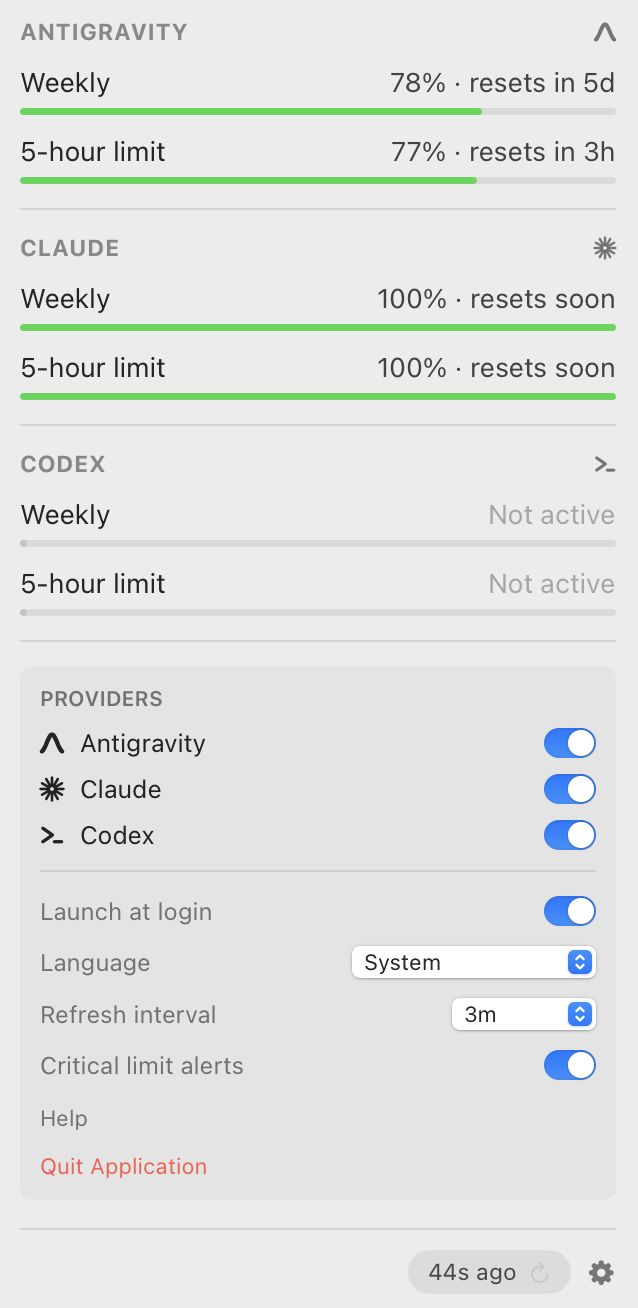
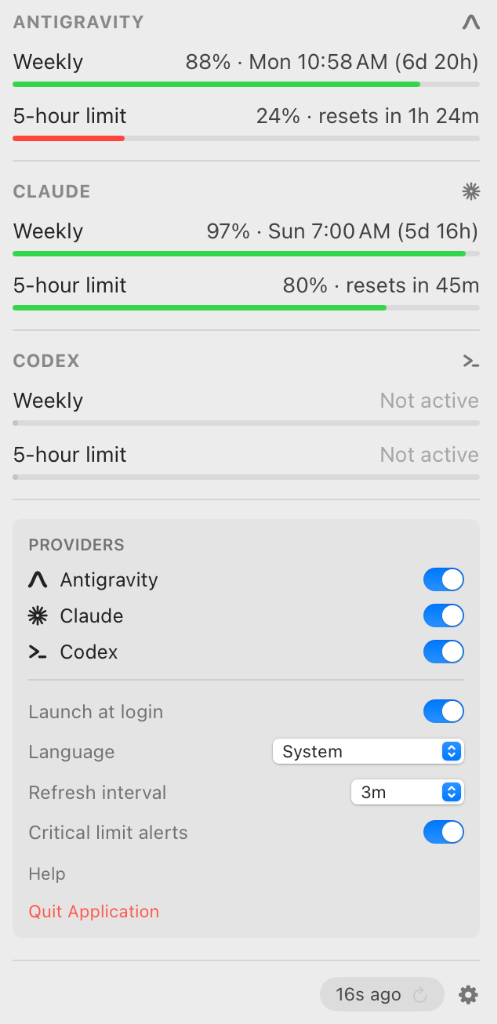
Add Russian (ru) localization (#8)
* docs: update popover preview screenshot without EXIF metadata

* feat(i18n): add Russian language support

diff --git a/Sources/AgentUsageLimits/Services/LocalizationManager.swift b/Sources/AgentUsageLimits/Services/LocalizationManager.swift
@@ -14,6 +14,7 @@ public enum AppLanguage: String, CaseIterable, Identifiable, Sendable {
     case japanese = "ja"
     case chinese = "zh-Hans"
     case korean = "ko"
+    case russian = "ru"
     
     public var id: String { rawValue }
     
@@ -41,6 +42,8 @@ public enum AppLanguage: String, CaseIterable, Identifiable, Sendable {
             return "简体中文"
         case .korean:
             return "한국어"
+        case .russian:
+            return "Русский"
         }
     }
 }
@@ -95,6 +98,8 @@ public final class LocalizationManager: ObservableObject {
             return "zh-Hans"
         case .korean:
             return "ko"
+        case .russian:
+            return "ru"
         case .system:
             let preferred = Locale.preferredLanguages.first?.lowercased() ?? "en"
             if preferred.starts(with: "es") { return "es" }
@@ -105,6 +110,7 @@ public final class LocalizationManager: ObservableObject {
             if preferred.starts(with: "ja") { return "ja" }
             if preferred.starts(with: "zh") { return "zh-Hans" }
             if preferred.starts(with: "ko") { return "ko" }
+            if preferred.starts(with: "ru") { return "ru" }
             return "en"
         }
     }

diff --git a/README.md b/README.md
@@ -49,7 +49,7 @@ A native, lightweight macOS menu bar application designed to monitor your AI cod
   - Native **Launch at Login** support via `SMAppService`.
   - Direct repository help link and application termination.
 - **Multi-Language Support (i18n)**:
-  - 🌐 Automatic system language detection + in-app language picker supporting **9 languages**:
+  - 🌐 Automatic system language detection + in-app language picker supporting **10 languages**:
     - 🇺🇸 **English** (`en`)
     - 🇪🇸 **Español** (`es`)
     - 🇫🇷 **Français** (`fr`)
@@ -59,6 +59,7 @@ A native, lightweight macOS menu bar application designed to monitor your AI cod
     - 🇯🇵 **日本語** (`ja`)
     - 🇨🇳 **简体中文** (`zh-Hans`)
     - 🇰🇷 **한국어** (`ko`)
+    - 🇷🇺 **Русский** (`ru`)
 - **Zero External Dependencies**:
   - Pure Swift 6 built on SwiftUI, AppKit, and Foundation.
 
@@ -226,7 +227,8 @@ Sources/AgentUsageLimits/Resources/
 ├── pt.lproj/Localizable.strings      # Portuguese
 ├── ja.lproj/Localizable.strings      # Japanese
 ├── zh-Hans.lproj/Localizable.strings # Simplified Chinese
-└── ko.lproj/Localizable.strings      # Korean
+├── ko.lproj/Localizable.strings      # Korean
+└── ru.lproj/Localizable.strings      # Russian
 ```
 
 ---

diff --git a/CONTRIBUTING.md b/CONTRIBUTING.md
@@ -160,6 +160,7 @@ Sources/AgentUsageLimits/Resources/
 ├── ja.lproj/Localizable.strings
 ├── zh-Hans.lproj/Localizable.strings
 ├── ko.lproj/Localizable.strings
+├── ru.lproj/Localizable.strings
 └── <lang>.lproj/Localizable.strings
 ```
 
